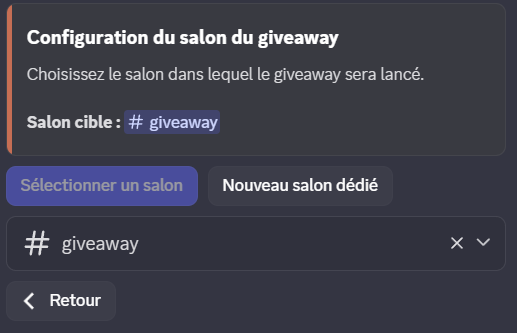
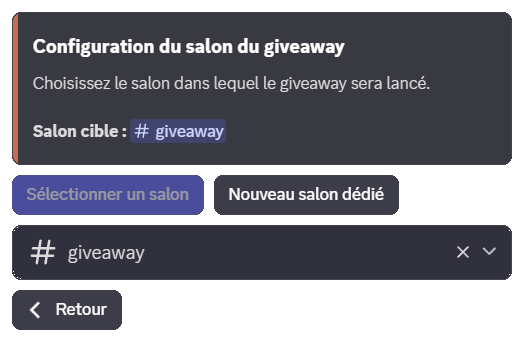
🔄 Replace image: exist_channel_choose.png

diff --git a/docs/2.modules/27.giveaways.md b/docs/2.modules/27.giveaways.md
@@ -176,7 +176,7 @@ Vous avez le choix d'utiliser un salon existant ou de demander la création d'un
 
 Vous pouvez sélectionner un salon textuel du serveur existant pour l'envoi du giveaway à l'aide du sélecteur de salon.
 
-<image>
+![Sélection d'un salon existant](../assets/giveaways/exist_channel_choose.png)
 
 ::hint{ type="warning" }
   Le créateur du giveaway et <@DraftBot> doivent disposer des permissions **Envoyer des messages** et **Voir le salon** dans le salon.
